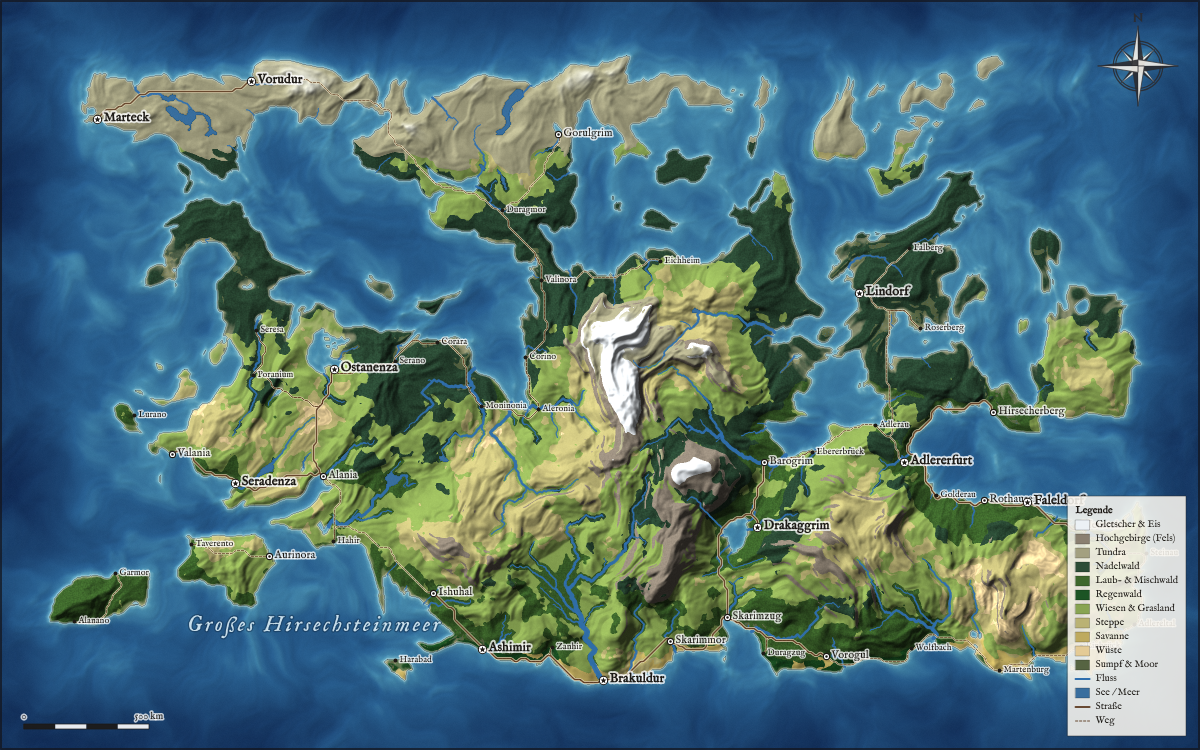
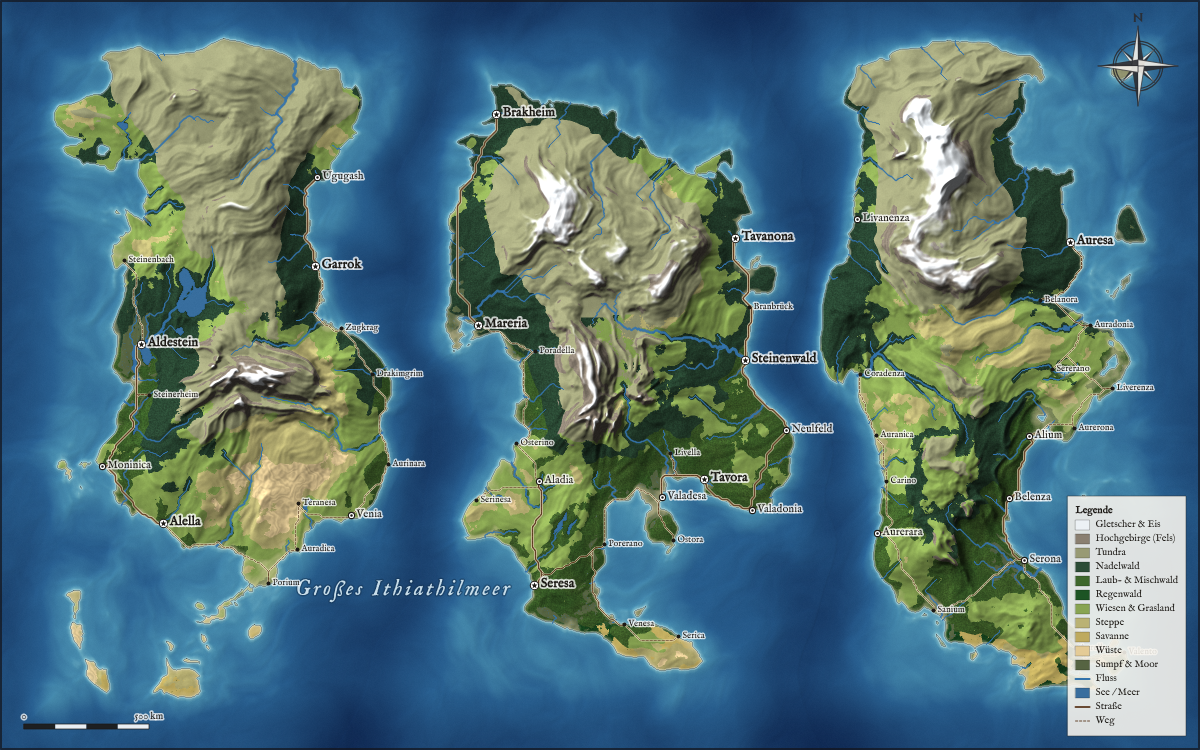
Gleich große Kontinente, natürlichere Gebirge, Wälder und Flüsse
- Landform „Mehrere Kontinente“: 2–3 Kontinentkerne in fester Anordnung,
  getrennt durch Meeresgräben; Meeresspiegel je Bereich, damit alle
  Kontinente etwa gleich viel Land erhalten
- Gebirge: schmalere, kettenförmige Grate; Krümmungsschattierung (Grate hell,
  Täler dunkel); Relief mit der Höhe kräftiger; Gesteinsschichten
- Schnee über eine vom Breitengrad abhängige Schneegrenze, vor allem auf
  Graten; Gletscher nur noch in polaren Lagen
- Wälder: Baumgrenze mit Almwiesen, feinere Kronenstruktur, Farbvariation
- Flüsse: Glättung, Mäander im Flachland, stufenlose Breite, keine Flüsse
  über Eisflächen
- Gemäßigtes Klima im Norden etwas milder

Claude-Session: https://claude.ai/code/session_01R1p4paFwYMXjgM74tCDT9S

diff --git a/js/render.js b/js/render.js
@@ -20,7 +20,7 @@
   }
 
   const STYLE = {
-    geo: { river: '#2f6fae', riverAlpha: 0.95, text: '#1d1a16', halo: 'rgba(255,255,255,0.75)', sea: '#d8ecf5', seaHalo: 'rgba(20,50,80,0.55)', city: '#1d1a16', cityFill: '#ffffff', border: [120, 30, 30] },
+    geo: { river: '#3473ab', riverAlpha: 0.92, text: '#1d1a16', halo: 'rgba(255,255,255,0.75)', sea: '#d8ecf5', seaHalo: 'rgba(20,50,80,0.55)', city: '#1d1a16', cityFill: '#ffffff', border: [120, 30, 30] },
     political: { river: '#4a80aa', riverAlpha: 0.9, text: '#2a221c', halo: 'rgba(250,246,236,0.85)', sea: '#356283', seaHalo: 'rgba(235,245,250,0.7)', city: '#2a221c', cityFill: '#ffffff', border: [70, 52, 48] },
     antique: { river: '#4f6878', riverAlpha: 0.9, text: '#3b2a18', halo: 'rgba(236,222,186,0.8)', sea: '#5a4a32', seaHalo: 'rgba(236,222,186,0.6)', city: '#3b2a18', cityFill: '#efe1bd', border: [120, 50, 40] },
   };
@@ -94,7 +94,7 @@
       const h = map.heights, moist = map.moisture, sm = map.stateMap;
       const lake = d.lake, cd = d.coastDist, bd = d.borderDist, latT = d.latT;
       const paper = this.paper, veg = this.veg, fine = this.fine, biome = this.biome;
-      const rdist = d.riverDist, bmap = map.biomeMap;
+      const rdist = d.riverDist, bmap = map.biomeMap, curv = d.curv;
       const px = this.img.data;
       const BI = FMM.BIOME_ID;
       const forest = FMM.BIOMES.map((b) => FMM.isForest(b.id));
@@ -158,12 +158,16 @@
           const gy = gyC[i00] * w00 + gyC[i10] * w10 + gyC[i01] * w01 + gyC[i11] * w11;
 
           let shade = 1;
+          // Krümmung (Grate hell, Täler dunkel)
+          const cv = ocean ? 0 : curv[i00] * w00 + curv[i10] * w10 + curv[i01] * w01 + curv[i11] * w11;
           if (reliefAmt > 0 && !isLake && (!ocean || sty === 0)) {
-            const z = ocean ? zSea : zLand;
+            // Relief wird mit der Höhe kräftiger: Tiefland ruhig, Gebirge plastisch
+            const z = ocean ? zSea : zLand * (0.7 + hv * 0.9);
             const nx = -gx * z, ny = -gy * z;
             const len = Math.sqrt(nx * nx + ny * ny + 1);
             const dot = (nx * lx + ny * ly + lz) / len;
             shade = 1 + (dot / lz - 1) * reliefAmt * (ocean ? 0.6 : 1);
+            if (!ocean) shade *= 1 + FMM.clamp(cv * 5, -0.22, 0.14) * reliefAmt;
             if (shade < 0.3) shade = 0.3; else if (shade > maxShade) shade = maxShade;
           }
 
@@ -199,12 +203,16 @@
               const fn = fine[i00] * w00 + fine[i10] * w10 + fine[i01] * w01 + fine[i11] * w11;
               const rdi = rdist[i00] * w00 + rdist[i10] * w10 + rdist[i01] * w01 + rdist[i11] * w11;
               const ov = bmap[i];
-              const bi = ov !== 255 ? ov : FMM.classifyBiome(t, moist[i00] * w00 + moist[i10] * w10 + moist[i01] * w01 + moist[i11] * w11, hv, slope, rdi, v);
+              const bi = ov !== 255 ? ov : FMM.classifyBiome(t, moist[i00] * w00 + moist[i10] * w10 + moist[i01] * w01 + moist[i11] * w11, hv, slope, rdi, v, fn);
               biome[i] = bi;
               const c = FMM.BIOMES[bi].color;
               r = c[0]; g = c[1]; b = c[2];
               if (forest[bi]) {
-                const k = 0.84 + fn * 0.2; // Baumkronen
+                // Baumkronen: weiche Struktur + einzelne Kronen/Lücken, leichte Farbvariation im Laubwald
+                let k = 0.82 + fn * 0.22;
+                const hh = FMM.hash2(X, Y);
+                if (hh > 0.8) k *= 0.8; else if (hh < 0.1) k *= 1.1;
+                if (bi === BI.wald) { const q = FMM.clamp(0.5 + v, 0, 1) * 0.3; r += (104 - r) * q; g += (128 - g) * q; b += (58 - b) * q; }
                 r *= k; g *= k; b *= k;
               } else if (bi === BI.wueste) {
                 const k = 0.95 + 0.06 * Math.sin(fx * 0.55 + fy * 0.2 + v * 18); // Dünen
@@ -214,13 +222,18 @@
               } else if (bi === BI.savanne) {
                 if (fn > 0.5) { r *= 0.62; g *= 0.7; b *= 0.55; } // Baumgruppen
               } else if (bi === BI.fels) {
-                const k = 0.94 + fn * 0.08;
+                // Gesteinsschichten
+                const k = 0.9 + fn * 0.08 + 0.05 * Math.sin(hv * 90 + v * 6);
                 r *= k; g *= k; b *= k;
               } else if (bi !== BI.gletscher) {
                 const k = 0.95 + v * 0.07 + fn * 0.03;
                 r *= k; g *= k; b *= k;
               }
-              const snow = ov !== 255 && bi !== BI.fels ? 0 : FMM.smoothstep(0.12, 0.05, t) * (bi === BI.fels ? 1 : 0.6);
+              // Schneegrenze abhängig vom Breitengrad: im Kalten tiefer, im Warmen höher.
+              // Grate (positive Krümmung) tragen mehr Schnee, Täler weniger.
+              const snowLine = FMM.clamp(0.58 + (lt - 0.3) * 0.7, 0.36, 0.95);
+              const snow = ov !== 255 && bi !== BI.fels ? 0
+                : FMM.smoothstep(snowLine + 0.03, snowLine + 0.17, hv + cv * 3.5 + v * 0.03) * (bi === BI.fels ? 1 : 0.8);
               if (snow > 0 && bi !== BI.gletscher) { r += (244 - r) * snow; g += (247 - g) * snow; b += (250 - b) * snow; }
               // Strand: schmaler, weicher Sandsaum
               if (hv < 0.014 && t > 0.3) { const f = (0.014 - hv) / 0.014 * 0.6; r += (218 - r) * f; g += (204 - g) * f; b += (164 - b) * f; }
@@ -272,34 +285,53 @@
 
     // ---------- Flüsse als Path2D nach Breitenstufen ----------
     buildRivers(map, d) {
-      const W = map.width;
+      const W = map.width, H = map.height;
       const T = d.riverThreshold;
-      const unit = Math.min(map.width, map.height) / 750;
-      const buckets = [];
-      const NB = 7;
-      for (let k = 0; k < NB; k++) buckets.push(new Path2D());
-      const widthOf = (i) => {
-        const f = Math.max(0, d.flux[i] - T) / (T * 25);
-        return Math.min(NB - 1, Math.floor(Math.sqrt(f) * NB * 0.9));
-      };
-      const pt = (i) => {
-        const x = i % W, y = (i / W) | 0;
-        return [x + 0.5 + (FMM.hash2(x, y) - 0.5) * 0.7, y + 0.5 + (FMM.hash2(y + 7, x + 3) - 0.5) * 0.7];
-      };
+      const unit = Math.min(W, H) / 750;
+      const NB = 16, minW = 0.45, maxW = 3.2;
+      const buckets = Array.from({ length: NB }, () => new Path2D());
+      // stufenlose Breite: dünn an der Quelle, breit an der Mündung
+      const widthOf = (f) => minW + (maxW - minW) * Math.sqrt(FMM.clamp((f - T) / (T * 40), 0, 1));
+      const bucketOf = (w) => Math.min(NB - 1, Math.max(0, Math.round(((w - minW) / (maxW - minW)) * (NB - 1))));
+      const noise = FMM.createNoise2D(FMM.makeRng('maeander'));
+
       for (const path of d.rivers) {
-        const pts = path.map(pt);
-        for (let k = 0; k < pts.length - 1; k++) {
-          const a = path[k], bI = path[k + 1];
-          if (d.lake[a] && d.lake[bI]) continue;
-          const p0 = k > 0 ? [(pts[k - 1][0] + pts[k][0]) / 2, (pts[k - 1][1] + pts[k][1]) / 2] : pts[0];
-          const p2 = [(pts[k][0] + pts[k + 1][0]) / 2, (pts[k][1] + pts[k + 1][1]) / 2];
-          const end = k === pts.length - 2 ? pts[k + 1] : p2;
-          const pa = buckets[widthOf(a)];
-          pa.moveTo(p0[0], p0[1]);
-          pa.quadraticCurveTo(pts[k][0], pts[k][1], end[0], end[1]);
+        // Punkte als [x, y, Breite, ausblenden] (ausblenden: in Seen und auf Gletschern)
+        let P = [];
+        for (const i of path) {
+          const x = i % W, y = (i / W) | 0;
+          const hide = d.lake[i] || FMM.cellTemp(d.latT[y], Math.max(0, map.heights[i])) < 0.03 ? 1 : 0;
+          P.push(x + 0.5, y + 0.5, widthOf(d.flux[i]), hide);
+        }
+        P = chaikin4(chaikin4(P));
+        const n = P.length / 4;
+        if (n < 2) continue;
+
+        // Mäander: seitliche Auslenkung, stark im Flachland, schwach im Gebirge
+        const out = P.slice();
+        const ph = FMM.hash2(path[0] % W, (path[0] / W) | 0) * 100;
+        let sLen = 0;
+        for (let k = 1; k < n - 1; k++) {
+          const dx = P[4 * k + 4] - P[4 * k - 4], dy = P[4 * k + 5] - P[4 * k - 3];
+          const len = Math.hypot(dx, dy) || 1;
+          sLen += Math.hypot(P[4 * k] - P[4 * k - 4], P[4 * k + 1] - P[4 * k - 3]);
+          const ci = FMM.clamp(Math.floor(P[4 * k + 1]), 0, H - 1) * W + FMM.clamp(Math.floor(P[4 * k]), 0, W - 1);
+          const flat = 1 - FMM.smoothstep(0.02, 0.22, map.heights[ci]);
+          const amp = flat * Math.min(1, P[4 * k + 2] / 1.4) * 1.1;
+          const fade = Math.min(1, k / 8, (n - 1 - k) / 8);
+          const off = amp * fade * (0.65 * Math.sin(sLen * 0.55 + ph) + 0.6 * noise(sLen * 0.18, ph));
+          out[4 * k] += (-dy / len) * off;
+          out[4 * k + 1] += (dx / len) * off;
+        }
+
+        for (let k = 0; k < n - 1; k++) {
+          if (out[4 * k + 3] >= 0.5 && out[4 * k + 7] >= 0.5) continue;
+          const pa = buckets[bucketOf((out[4 * k + 2] + out[4 * k + 6]) / 2)];
+          pa.moveTo(out[4 * k], out[4 * k + 1]);
+          pa.lineTo(out[4 * k + 4], out[4 * k + 5]);
         }
       }
-      this.riverCache = { buckets, widths: buckets.map((_, k) => (0.8 + k * 0.5) * unit) };
+      this.riverCache = { buckets, widths: buckets.map((_, k) => (minW + (k / (NB - 1)) * (maxW - minW)) * unit) };
     }
 
     // ---------- Vektorebene ----------
@@ -694,6 +726,21 @@
       this.hitBoxes = saved;
       return c;
     }
+  }
+
+  // Chaikin-Glättung für Punkte mit vier Werten [x, y, Breite, Maske]; Endpunkte bleiben
+  function chaikin4(p) {
+    const n = p.length / 4;
+    if (n < 3) return p;
+    const out = [p[0], p[1], p[2], p[3]];
+    for (let k = 0; k < n - 1; k++) {
+      const a = 4 * k, b = 4 * k + 4;
+      for (const [f, g] of [[0.75, 0.25], [0.25, 0.75]]) {
+        out.push(p[a] * f + p[b] * g, p[a + 1] * f + p[b + 1] * g, p[a + 2] * f + p[b + 2] * g, Math.max(p[a + 3], p[b + 3]) > 0 && Math.min(p[a + 3], p[b + 3]) > 0 ? 1 : 0);
+      }
+    }
+    out.push(p[4 * n - 4], p[4 * n - 3], p[4 * n - 2], p[4 * n - 1]);
+    return out;
   }
 
   function rank(t) { return t === 'capital' ? 2 : t === 'city' ? 1 : 0; }

diff --git a/js/generator.js b/js/generator.js
@@ -4,7 +4,7 @@
   const FMM = window.FMM;
 
   const LAND_TYPES = {
-    kontinente: { label: 'Mehrere Kontinente', blobs: [2, 4], radius: [0.22, 0.34], noise: 0.55, edge: 0.12 },
+    kontinente: { label: 'Mehrere Kontinente (2–3 gleich große)', equal: true, blobs: [2, 3], radius: [0.26, 0.3], noise: 0.42, edge: 0.1 },
     pangaea: { label: 'Superkontinent', blobs: [1, 1], radius: [0.42, 0.5], noise: 0.5, edge: 0.14 },
     insel: { label: 'Große Insel', blobs: [1, 1], radius: [0.3, 0.36], noise: 0.45, edge: 0.2 },
     archipel: { label: 'Archipel / Inselwelt', blobs: [10, 18], radius: [0.06, 0.13], noise: 0.6, edge: 0.1 },
@@ -33,7 +33,31 @@
     // Kontinentkerne
     const blobs = [];
     const count = rng.int(type.blobs[0], type.blobs[1]);
-    for (let b = 0; b < count; b++) {
+    if (type.equal) {
+      // feste Anordnung, damit die Kontinente sich nicht überlappen und ähnlich viel Platz haben
+      const m = Math.min(W, H);
+      let pos;
+      if (count === 2) {
+        const tilt = rng.range(-0.12, 0.12);
+        pos = [[0.27, 0.5 - tilt], [0.73, 0.5 + tilt]];
+        if (W / H < 1.2) pos = [[0.5 - tilt, 0.27], [0.5 + tilt, 0.73]];
+      } else if (W / H >= 1.45) {
+        pos = [[0.18, rng.range(0.38, 0.62)], [0.5, rng.range(0.38, 0.62)], [0.82, rng.range(0.38, 0.62)]];
+      } else {
+        const up = rng.chance(0.5);
+        pos = up ? [[0.25, 0.33], [0.75, 0.33], [0.5, 0.72]] : [[0.25, 0.67], [0.75, 0.67], [0.5, 0.28]];
+      }
+      for (const [px, py] of pos) {
+        blobs.push({
+          x: (px + rng.range(-0.04, 0.04)) * W,
+          y: (py + rng.range(-0.04, 0.04)) * H,
+          r: m * (count === 2 ? 0.34 : 0.27) * rng.range(0.92, 1.08),
+          sx: count === 3 && W / H >= 1.45 ? rng.range(0.6, 0.8) : rng.range(0.85, 1.25),
+          w: 1,
+        });
+      }
+    }
+    for (let b = 0; b < (type.equal ? 0 : count); b++) {
       const r = rng.range(type.radius[0], type.radius[1]);
       blobs.push({
         x: rng.range(0.15 + r * 0.4, 0.85 - r * 0.4) * W,
@@ -49,6 +73,8 @@
     const scale = (p.featureScale || 1) * 3.2;
     const mtn = p.mountains == null ? 0.5 : p.mountains;
     const h = new Float32Array(N);
+    const region = type.equal ? new Uint8Array(N) : null;
+    const riftW = Math.min(W, H) * 0.07;
     const edgeW = Math.max(1, type.edge * Math.min(W, H));
 
     for (let y = 0; y < H; y++) {
@@ -75,6 +101,19 @@
         }
         e += mass * 0.8;
 
+        // getrennte Kontinente: jede Zelle gehört zum nächsten Kern (mit gewellten Grenzen),
+        // entlang der Grenzen verläuft ein Meeresgraben
+        if (region) {
+          const qx = x + ou * Math.min(W, H) * 0.12, qy = y + ov * Math.min(W, H) * 0.12;
+          let d1 = Infinity, d2 = Infinity, k1 = 0;
+          for (let k = 0; k < blobs.length; k++) {
+            const dd = Math.hypot(qx - blobs[k].x, qy - blobs[k].y);
+            if (dd < d1) { d2 = d1; d1 = dd; k1 = k; } else if (dd < d2) d2 = dd;
+          }
+          region[y * W + x] = k1;
+          e -= (1 - FMM.smoothstep(0, riftW, (d2 - d1) / 2)) * 0.9;
+        }
+
         // Rand der Karte wird zu Meer
         if (edgeW > 1) {
           const de = Math.min(x, W - 1 - x, y, H - 1 - y) / edgeW;
@@ -83,8 +122,9 @@
 
         // Gebirgsketten
         const mask = FMM.smoothstep(-0.05, 0.45, FMM.fbm(nMask, u * 0.55 + 11, v * 0.55 - 4, 3, 2, 0.5));
-        const ridge = FMM.ridged(nRidge, wu * 1.1, wv * 1.1, 6);
-        e += ridge * mask * mtn * 0.55 * FMM.smoothstep(-0.1, 0.25, e);
+        // schmalere, kettenförmige Grate statt breiter Massive
+        const ridge = Math.pow(FMM.ridged(nRidge, wu * 1.5, wv * 1.5, 6), 1.6);
+        e += ridge * mask * mtn * 0.7 * FMM.smoothstep(-0.1, 0.25, e);
         e += FMM.fbm(nDetail, u * 6, v * 6, 3, 2, 0.5) * 0.025;
         h[y * W + x] = e;
       }
@@ -99,8 +139,22 @@
     for (let i = 0; i < N; i += step) sample.push(h[i]);
     sample.sort((a, b) => a - b);
     const landFrac = FMM.clamp(p.landFraction || 0.4, 0.05, 0.95);
-    const sea = sample[Math.floor((1 - landFrac) * (sample.length - 1))];
-    for (let i = 0; i < N; i++) h[i] -= sea;
+    if (region) {
+      // Meeresspiegel je Kontinentbereich, sodass jeder Kontinent gleich viel Land erhält
+      const k = blobs.length;
+      const per = Array.from({ length: k }, () => []);
+      for (let i = 0; i < N; i += step) per[region[i]].push(h[i]);
+      const target = (landFrac * N) / k / step;
+      const seaR = per.map((arr) => {
+        arr.sort((a, b) => a - b);
+        const land = Math.min(arr.length * 0.85, target);
+        return arr[Math.max(0, Math.floor(arr.length - land))];
+      });
+      for (let i = 0; i < N; i++) h[i] -= seaR[region[i]];
+    } else {
+      const sea = sample[Math.floor((1 - landFrac) * (sample.length - 1))];
+      for (let i = 0; i < N; i++) h[i] -= sea;
+    }
 
     // Küstendetails: verwirbeltes, feines Rauschen nur nahe dem Meeresspiegel
     // → zerklüftete Buchten, Landzungen und vorgelagerte Inselchen statt glatter Ränder

diff --git a/js/biomes.js b/js/biomes.js
@@ -7,7 +7,7 @@
   const BIOMES = [
     { key: 'gletscher', name: 'Gletscher & Eis', color: [236, 241, 245] },
     { key: 'fels', name: 'Hochgebirge (Fels)', color: [138, 127, 113] },
-    { key: 'tundra', name: 'Tundra', color: [163, 160, 128] },
+    { key: 'tundra', name: 'Tundra', color: [152, 154, 116] },
     { key: 'taiga', name: 'Nadelwald', color: [44, 76, 54] },
     { key: 'wald', name: 'Laub- & Mischwald', color: [62, 103, 44] },
     { key: 'regenwald', name: 'Regenwald', color: [28, 84, 36] },
@@ -27,14 +27,18 @@
    * slope: Hangneigung (≈0 flach, ≥1 steil), rd: Abstand zum nächsten Fluss in Zellen,
    * v: großräumiges Variationsrauschen (-1..1) für natürliche, unregelmäßige Grenzen
    */
-  function classify(t, m, h, slope, rd, v) {
-    if (t < 0.05 + v * 0.02) return ID.gletscher;
-    if (h > 0.7 + v * 0.06 || (h > 0.42 && slope > 1.5 + v * 0.3)) return t < 0.14 ? ID.gletscher : ID.fels;
-    // Flüsse machen ihre Umgebung feuchter (Auwälder, grüne Flusstäler)
-    let wet = m + v * 0.16;
+  function classify(t, m, h, slope, rd, v, fn) {
+    fn = fn || 0;
+    // Gletscher/Eis nur in wirklich polaren Lagen; Schnee auf Gipfeln zeichnet der Renderer über die Schneegrenze
+    if (t < -0.08 + v * 0.03) return ID.gletscher;
+    if (h > 0.7 + v * 0.06 || (h > 0.42 && slope > 1.5 + v * 0.3)) return ID.fels;
+    // Flüsse machen ihre Umgebung feuchter (Auwälder, grüne Flusstäler); feines Rauschen franst Ränder aus
+    let wet = m + v * 0.16 + fn * 0.02;
     if (rd < 5) wet += (5 - rd) * 0.045;
     if (t < 0.2) return ID.tundra;
     if (h < 0.08 && slope < 0.25 && wet > 0.76 && t > 0.3) return ID.sumpf;
+    // Baumgrenze: oberhalb Almwiesen statt Wald
+    if (h > 0.46 + v * 0.06 + fn * 0.02) return t < 0.3 ? ID.tundra : wet > 0.3 ? ID.wiese : ID.steppe;
     if (t < 0.45) return wet > 0.5 ? ID.taiga : wet > 0.3 ? ID.wiese : ID.steppe;
     if (t < 0.72) return wet > 0.56 ? ID.wald : wet > 0.36 ? ID.wiese : wet > 0.24 ? ID.steppe : ID.wueste;
     return wet > 0.64 ? ID.regenwald : wet > 0.44 ? ID.savanne : wet > 0.34 ? ID.steppe : ID.wueste;

diff --git a/js/derive.js b/js/derive.js
@@ -5,7 +5,7 @@
   const FMM = window.FMM;
 
   const CLIMATES = {
-    gemaessigt: { label: 'Gemäßigt (kalt im Norden)', top: 0.05, bottom: 0.85 },
+    gemaessigt: { label: 'Gemäßigt (kalt im Norden)', top: 0.12, bottom: 0.85 },
     kalt: { label: 'Kalt / Eiszeit', top: -0.05, bottom: 0.55 },
     warm: { label: 'Warm / Tropisch', top: 0.38, bottom: 1.05 },
     aequator: { label: 'Äquator in der Mitte', equator: true },
@@ -167,6 +167,28 @@
     }
 
     d.riverDist = riverDist;
+
+    // Geländekrümmung: Höhe minus geglättete Umgebung (>0 Grate, <0 Täler) für plastisches Relief
+    const r = 4, hb = new Float32Array(N), tmp = new Float32Array(N);
+    for (let y = 0; y < H; y++) {
+      let acc = 0;
+      const row = y * W;
+      for (let x = -r; x <= r; x++) acc += Math.max(0, h[row + FMM.clamp(x, 0, W - 1)]);
+      for (let x = 0; x < W; x++) {
+        tmp[row + x] = acc / (2 * r + 1);
+        acc += Math.max(0, h[row + Math.min(W - 1, x + r + 1)]) - Math.max(0, h[row + Math.max(0, x - r)]);
+      }
+    }
+    for (let x = 0; x < W; x++) {
+      let acc = 0;
+      for (let y = -r; y <= r; y++) acc += tmp[FMM.clamp(y, 0, H - 1) * W + x];
+      for (let y = 0; y < H; y++) {
+        hb[y * W + x] = acc / (2 * r + 1);
+        acc += tmp[Math.min(H - 1, y + r + 1) * W + x] - tmp[Math.max(0, y - r) * W + x];
+      }
+    }
+    for (let i = 0; i < N; i++) hb[i] = Math.max(0, h[i]) - hb[i];
+    d.curv = hb;
     d.filled = filled;
     d.down = down;
     d.flux = flux;

diff --git a/README.md b/README.md
@@ -21,11 +21,13 @@ Die App läuft komplett im Browser. Es gibt keinen Server, keinen Build-Schritt 
 
 ### Weltgenerierung
 - Höhenkarte aus fraktalem Rauschen mit Domain Warping und Gebirgsketten aus Gratrauschen
-- Landformen: mehrere Kontinente, Superkontinent, große Insel, Archipel, Küstenregion oder freies Rauschen
+- Landformen: 2–3 etwa gleich große Kontinente (durch Meere getrennt), Superkontinent, große Insel, Archipel, Küstenregion oder freies Rauschen
 - Einstellbar: Landanteil, Gebirge, Strukturgröße, Flussdichte, Klima, Anzahl Staaten und Städte
 - **Gleicher Seed = gleiche Welt**
 - Klima und Landschaftsformen: Gletscher, Hochgebirge, Tundra, Nadelwald, Laub- und Mischwald, Regenwald, Wiesen, Steppe, Savanne, Wüste, Sumpf. Entlang von Flüssen entstehen grüne Täler und Auwälder.
 - **Flüsse und Seen** aus einer echten Abflusssimulation (Senkenfüllung und Abflussakkumulation)
+- **Gebirge als Ketten** mit Graten; Schnee nur oberhalb einer Schneegrenze, die vom Breitengrad abhängt, vor allem auf Graten. Baumgrenze mit Almwiesen darüber.
+- **Flüsse mit Mäandern** im Flachland und stufenloser Breite von der Quelle bis zur Mündung
 - **Natürliche Küsten** mit Buchten, Landzungen und vorgelagerten Inselchen
 - **Straßennetz** zwischen den Städten: Wegsuche über das Gelände. Straßen meiden Gebirge und Gewässer und bündeln sich zu Hauptstraßen, kleine Orte hängen an Nebenwegen. Das Netz passt sich an, wenn Städte gesetzt, verschoben oder gelöscht werden.
 - Staaten breiten sich von ihren Hauptstädten über das Gelände aus. Gebirge und Flüsse werden dabei zu natürlichen Grenzen.
